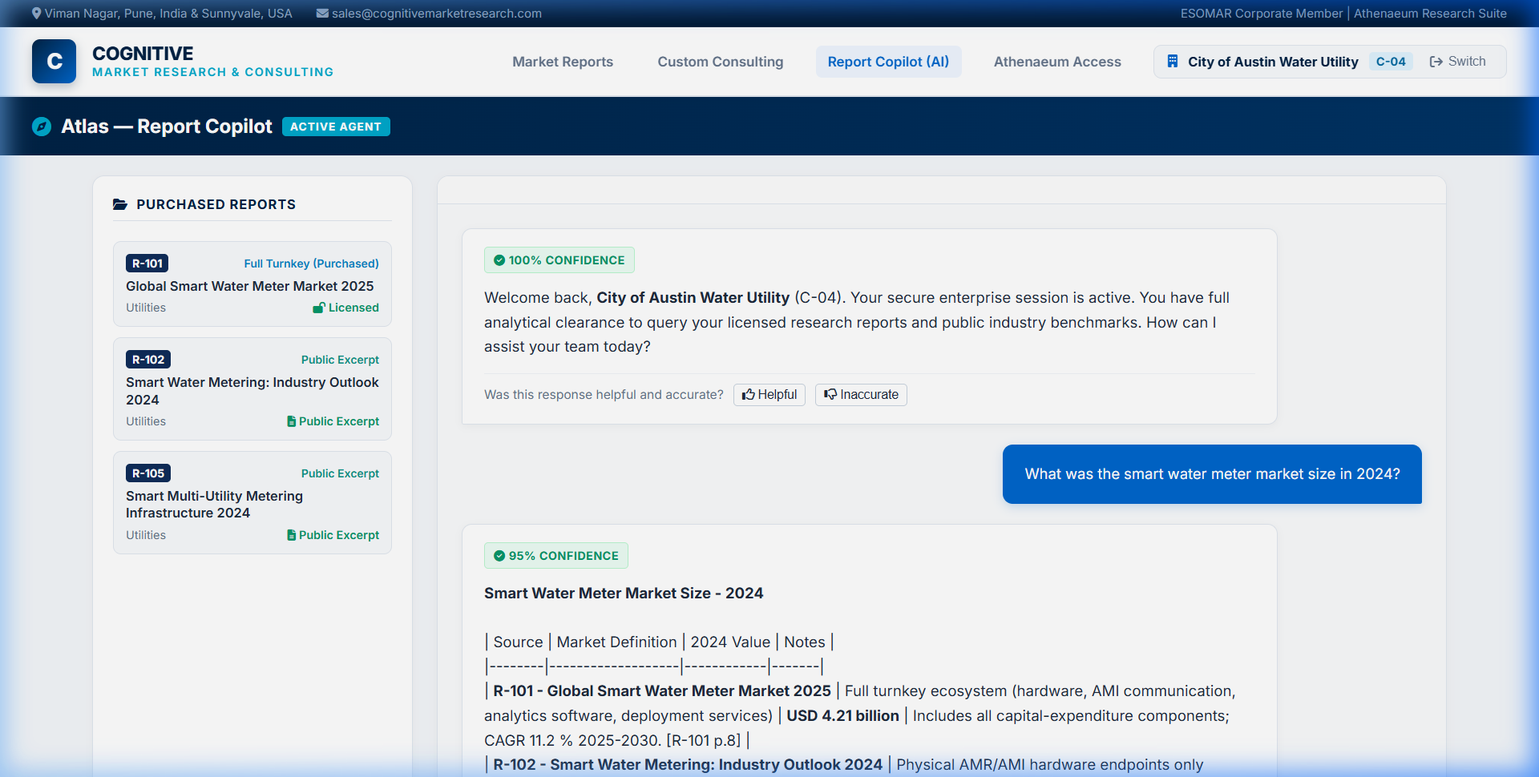
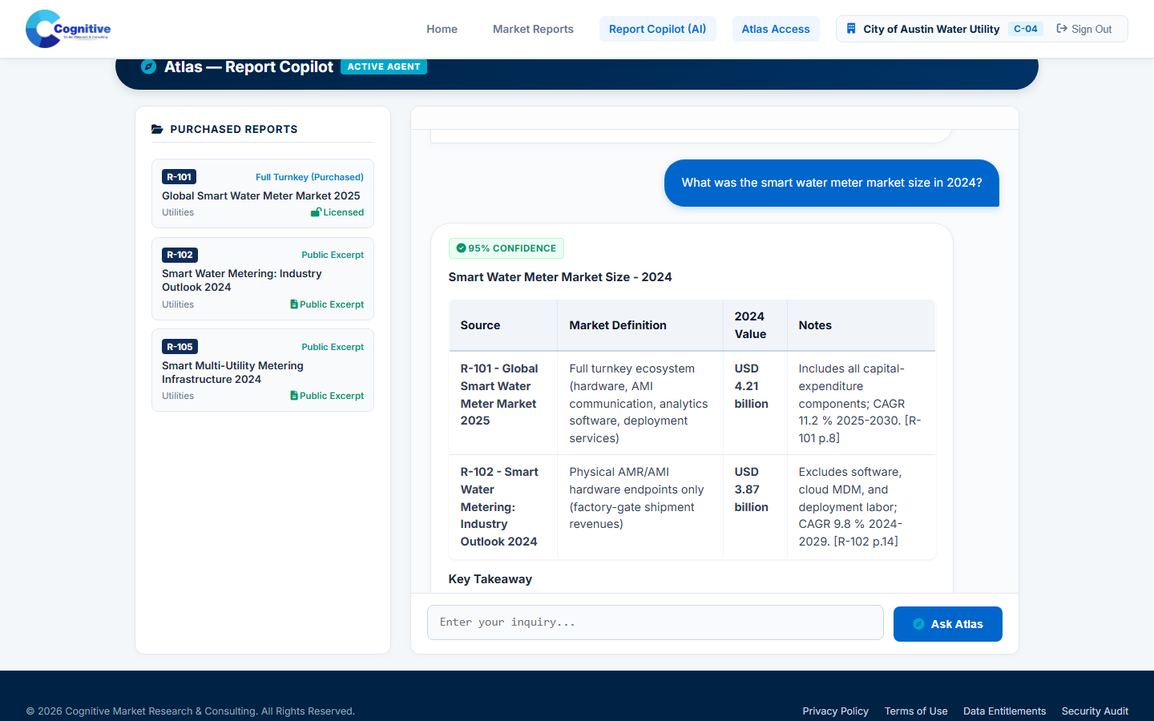
fix(portal): resolve markdown table rendering and update walkthrough screenshot [skip ci]

diff --git a/portal/assets/js/marked.min.js b/portal/assets/js/marked.min.js
@@ -1,0 +1,69 @@
+/**
+ * marked v15.0.12 - a markdown parser
+ * Copyright (c) 2011-2025, Christopher Jeffrey. (MIT Licensed)
+ * https://github.com/markedjs/marked
+ */
+
+/**
+ * DO NOT EDIT THIS FILE
+ * The code in this file is generated from files in ./src/
+ */
+(function(g,f){if(typeof exports=="object"&&typeof module<"u"){module.exports=f()}else if("function"==typeof define && define.amd){define("marked",f)}else {g["marked"]=f()}}(typeof globalThis < "u" ? globalThis : typeof self < "u" ? self : this,function(){var exports={};var __exports=exports;var module={exports};
+"use strict";var H=Object.defineProperty;var be=Object.getOwnPropertyDescriptor;var Te=Object.getOwnPropertyNames;var we=Object.prototype.hasOwnProperty;var ye=(l,e)=>{for(var t in e)H(l,t,{get:e[t],enumerable:!0})},Re=(l,e,t,n)=>{if(e&&typeof e=="object"||typeof e=="function")for(let s of Te(e))!we.call(l,s)&&s!==t&&H(l,s,{get:()=>e[s],enumerable:!(n=be(e,s))||n.enumerable});return l};var Se=l=>Re(H({},"__esModule",{value:!0}),l);var kt={};ye(kt,{Hooks:()=>L,Lexer:()=>x,Marked:()=>E,Parser:()=>b,Renderer:()=>$,TextRenderer:()=>_,Tokenizer:()=>S,defaults:()=>w,getDefaults:()=>z,lexer:()=>ht,marked:()=>k,options:()=>it,parse:()=>pt,parseInline:()=>ct,parser:()=>ut,setOptions:()=>ot,use:()=>lt,walkTokens:()=>at});module.exports=Se(kt);function z(){return{async:!1,breaks:!1,extensions:null,gfm:!0,hooks:null,pedantic:!1,renderer:null,silent:!1,tokenizer:null,walkTokens:null}}var w=z();function N(l){w=l}var I={exec:()=>null};function h(l,e=""){let t=typeof l=="string"?l:l.source,n={replace:(s,i)=>{let r=typeof i=="string"?i:i.source;return r=r.replace(m.caret,"$1"),t=t.replace(s,r),n},getRegex:()=>new RegExp(t,e)};return n}var m={codeRemoveIndent:/^(?: {1,4}| {0,3}\t)/gm,outputLinkReplace:/\\([\[\]])/g,indentCodeCompensation:/^(\s+)(?:```)/,beginningSpace:/^\s+/,endingHash:/#$/,startingSpaceChar:/^ /,endingSpaceChar:/ $/,nonSpaceChar:/[^ ]/,newLineCharGlobal:/\n/g,tabCharGlobal:/\t/g,multipleSpaceGlobal:/\s+/g,blankLine:/^[ \t]*$/,doubleBlankLine:/\n[ \t]*\n[ \t]*$/,blockquoteStart:/^ {0,3}>/,blockquoteSetextReplace:/\n {0,3}((?:=+|-+) *)(?=\n|$)/g,blockquoteSetextReplace2:/^ {0,3}>[ \t]?/gm,listReplaceTabs:/^\t+/,listReplaceNesting:/^ {1,4}(?=( {4})*[^ ])/g,listIsTask:/^\[[ xX]\] /,listReplaceTask:/^\[[ xX]\] +/,anyLine:/\n.*\n/,hrefBrackets:/^<(.*)>$/,tableDelimiter:/[:|]/,tableAlignChars:/^\||\| *$/g,tableRowBlankLine:/\n[ \t]*$/,tableAlignRight:/^ *-+: *$/,tableAlignCenter:/^ *:-+: *$/,tableAlignLeft:/^ *:-+ *$/,startATag:/^<a /i,endATag:/^<\/a>/i,startPreScriptTag:/^<(pre|code|kbd|script)(\s|>)/i,endPreScriptTag:/^<\/(pre|code|kbd|script)(\s|>)/i,startAngleBracket:/^</,endAngleBracket:/>$/,pedanticHrefTitle:/^([^'"]*[^\s])\s+(['"])(.*)\2/,unicodeAlphaNumeric:/[\p{L}\p{N}]/u,escapeTest:/[&<>"']/,escapeReplace:/[&<>"']/g,escapeTestNoEncode:/[<>"']|&(?!(#\d{1,7}|#[Xx][a-fA-F0-9]{1,6}|\w+);)/,escapeReplaceNoEncode:/[<>"']|&(?!(#\d{1,7}|#[Xx][a-fA-F0-9]{1,6}|\w+);)/g,unescapeTest:/&(#(?:\d+)|(?:#x[0-9A-Fa-f]+)|(?:\w+));?/ig,caret:/(^|[^\[])\^/g,percentDecode:/%25/g,findPipe:/\|/g,splitPipe:/ \|/,slashPipe:/\\\|/g,carriageReturn:/\r\n|\r/g,spaceLine:/^ +$/gm,notSpaceStart:/^\S*/,endingNewline:/\n$/,listItemRegex:l=>new RegExp(`^( {0,3}${l})((?:[	 ][^\\n]*)?(?:\\n|$))`),nextBulletRegex:l=>new RegExp(`^ {0,${Math.min(3,l-1)}}(?:[*+-]|\\d{1,9}[.)])((?:[ 	][^\\n]*)?(?:\\n|$))`),hrRegex:l=>new RegExp(`^ {0,${Math.min(3,l-1)}}((?:- *){3,}|(?:_ *){3,}|(?:\\* *){3,})(?:\\n+|$)`),fencesBeginRegex:l=>new RegExp(`^ {0,${Math.min(3,l-1)}}(?:\`\`\`|~~~)`),headingBeginRegex:l=>new RegExp(`^ {0,${Math.min(3,l-1)}}#`),htmlBeginRegex:l=>new RegExp(`^ {0,${Math.min(3,l-1)}}<(?:[a-z].*>|!--)`,"i")},$e=/^(?:[ \t]*(?:\n|$))+/,_e=/^((?: {4}| {0,3}\t)[^\n]+(?:\n(?:[ \t]*(?:\n|$))*)?)+/,Le=/^ {0,3}(`{3,}(?=[^`\n]*(?:\n|$))|~{3,})([^\n]*)(?:\n|$)(?:|([\s\S]*?)(?:\n|$))(?: {0,3}\1[~`]* *(?=\n|$)|$)/,O=/^ {0,3}((?:-[\t ]*){3,}|(?:_[ \t]*){3,}|(?:\*[ \t]*){3,})(?:\n+|$)/,ze=/^ {0,3}(#{1,6})(?=\s|$)(.*)(?:\n+|$)/,F=/(?:[*+-]|\d{1,9}[.)])/,ie=/^(?!bull |blockCode|fences|blockquote|heading|html|table)((?:.|\n(?!\s*?\n|bull |blockCode|fences|blockquote|heading|html|table))+?)\n {0,3}(=+|-+) *(?:\n+|$)/,oe=h(ie).replace(/bull/g,F).replace(/blockCode/g,/(?: {4}| {0,3}\t)/).replace(/fences/g,/ {0,3}(?:`{3,}|~{3,})/).replace(/blockquote/g,/ {0,3}>/).replace(/heading/g,/ {0,3}#{1,6}/).replace(/html/g,/ {0,3}<[^\n>]+>\n/).replace(/\|table/g,"").getRegex(),Me=h(ie).replace(/bull/g,F).replace(/blockCode/g,/(?: {4}| {0,3}\t)/).replace(/fences/g,/ {0,3}(?:`{3,}|~{3,})/).replace(/blockquote/g,/ {0,3}>/).replace(/heading/g,/ {0,3}#{1,6}/).replace(/html/g,/ {0,3}<[^\n>]+>\n/).replace(/table/g,/ {0,3}\|?(?:[:\- ]*\|)+[\:\- ]*\n/).getRegex(),Q=/^([^\n]+(?:\n(?!hr|heading|lheading|blockquote|fences|list|html|table| +\n)[^\n]+)*)/,Pe=/^[^\n]+/,U=/(?!\s*\])(?:\\.|[^\[\]\\])+/,Ae=h(/^ {0,3}\[(label)\]: *(?:\n[ \t]*)?([^<\s][^\s]*|<.*?>)(?:(?: +(?:\n[ \t]*)?| *\n[ \t]*)(title))? *(?:\n+|$)/).replace("label",U).replace("title",/(?:"(?:\\"?|[^"\\])*"|'[^'\n]*(?:\n[^'\n]+)*\n?'|\([^()]*\))/).getRegex(),Ee=h(/^( {0,3}bull)([ \t][^\n]+?)?(?:\n|$)/).replace(/bull/g,F).getRegex(),v="address|article|aside|base|basefont|blockquote|body|caption|center|col|colgroup|dd|details|dialog|dir|div|dl|dt|fieldset|figcaption|figure|footer|form|frame|frameset|h[1-6]|head|header|hr|html|iframe|legend|li|link|main|menu|menuitem|meta|nav|noframes|ol|optgroup|option|p|param|search|section|summary|table|tbody|td|tfoot|th|thead|title|tr|track|ul",K=/<!--(?:-?>|[\s\S]*?(?:-->|$))/,Ce=h("^ {0,3}(?:<(script|pre|style|textarea)[\\s>][\\s\\S]*?(?:</\\1>[^\\n]*\\n+|$)|comment[^\\n]*(\\n+|$)|<\\?[\\s\\S]*?(?:\\?>\\n*|$)|<![A-Z][\\s\\S]*?(?:>\\n*|$)|<!\\[CDATA\\[[\\s\\S]*?(?:\\]\\]>\\n*|$)|</?(tag)(?: +|\\n|/?>)[\\s\\S]*?(?:(?:\\n[ 	]*)+\\n|$)|<(?!script|pre|style|textarea)([a-z][\\w-]*)(?:attribute)*? */?>(?=[ \\t]*(?:\\n|$))[\\s\\S]*?(?:(?:\\n[ 	]*)+\\n|$)|</(?!script|pre|style|textarea)[a-z][\\w-]*\\s*>(?=[ \\t]*(?:\\n|$))[\\s\\S]*?(?:(?:\\n[ 	]*)+\\n|$))","i").replace("comment",K).replace("tag",v).replace("attribute",/ +[a-zA-Z:_][\w.:-]*(?: *= *"[^"\n]*"| *= *'[^'\n]*'| *= *[^\s"'=<>`]+)?/).getRegex(),le=h(Q).replace("hr",O).replace("heading"," {0,3}#{1,6}(?:\\s|$)").replace("|lheading","").replace("|table","").replace("blockquote"," {0,3}>").replace("fences"," {0,3}(?:`{3,}(?=[^`\\n]*\\n)|~{3,})[^\\n]*\\n").replace("list"," {0,3}(?:[*+-]|1[.)]) ").replace("html","</?(?:tag)(?: +|\\n|/?>)|<(?:script|pre|style|textarea|!--)").replace("tag",v).getRegex(),Ie=h(/^( {0,3}> ?(paragraph|[^\n]*)(?:\n|$))+/).replace("paragraph",le).getRegex(),X={blockquote:Ie,code:_e,def:Ae,fences:Le,heading:ze,hr:O,html:Ce,lheading:oe,list:Ee,newline:$e,paragraph:le,table:I,text:Pe},re=h("^ *([^\\n ].*)\\n {0,3}((?:\\| *)?:?-+:? *(?:\\| *:?-+:? *)*(?:\\| *)?)(?:\\n((?:(?! *\\n|hr|heading|blockquote|code|fences|list|html).*(?:\\n|$))*)\\n*|$)").replace("hr",O).replace("heading"," {0,3}#{1,6}(?:\\s|$)").replace("blockquote"," {0,3}>").replace("code","(?: {4}| {0,3}	)[^\\n]").replace("fences"," {0,3}(?:`{3,}(?=[^`\\n]*\\n)|~{3,})[^\\n]*\\n").replace("list"," {0,3}(?:[*+-]|1[.)]) ").replace("html","</?(?:tag)(?: +|\\n|/?>)|<(?:script|pre|style|textarea|!--)").replace("tag",v).getRegex(),Oe={...X,lheading:Me,table:re,paragraph:h(Q).replace("hr",O).replace("heading"," {0,3}#{1,6}(?:\\s|$)").replace("|lheading","").replace("table",re).replace("blockquote"," {0,3}>").replace("fences"," {0,3}(?:`{3,}(?=[^`\\n]*\\n)|~{3,})[^\\n]*\\n").replace("list"," {0,3}(?:[*+-]|1[.)]) ").replace("html","</?(?:tag)(?: +|\\n|/?>)|<(?:script|pre|style|textarea|!--)").replace("tag",v).getRegex()},Be={...X,html:h(`^ *(?:comment *(?:\\n|\\s*$)|<(tag)[\\s\\S]+?</\\1> *(?:\\n{2,}|\\s*$)|<tag(?:"[^"]*"|'[^']*'|\\s[^'"/>\\s]*)*?/?> *(?:\\n{2,}|\\s*$))`).replace("comment",K).replace(/tag/g,"(?!(?:a|em|strong|small|s|cite|q|dfn|abbr|data|time|code|var|samp|kbd|sub|sup|i|b|u|mark|ruby|rt|rp|bdi|bdo|span|br|wbr|ins|del|img)\\b)\\w+(?!:|[^\\w\\s@]*@)\\b").getRegex(),def:/^ *\[([^\]]+)\]: *<?([^\s>]+)>?(?: +(["(][^\n]+[")]))? *(?:\n+|$)/,heading:/^(#{1,6})(.*)(?:\n+|$)/,fences:I,lheading:/^(.+?)\n {0,3}(=+|-+) *(?:\n+|$)/,paragraph:h(Q).replace("hr",O).replace("heading",` *#{1,6} *[^
+]`).replace("lheading",oe).replace("|table","").replace("blockquote"," {0,3}>").replace("|fences","").replace("|list","").replace("|html","").replace("|tag","").getRegex()},qe=/^\\([!"#$%&'()*+,\-./:;<=>?@\[\]\\^_`{|}~])/,ve=/^(`+)([^`]|[^`][\s\S]*?[^`])\1(?!`)/,ae=/^( {2,}|\\)\n(?!\s*$)/,De=/^(`+|[^`])(?:(?= {2,}\n)|[\s\S]*?(?:(?=[\\<!\[`*_]|\b_|$)|[^ ](?= {2,}\n)))/,D=/[\p{P}\p{S}]/u,W=/[\s\p{P}\p{S}]/u,ce=/[^\s\p{P}\p{S}]/u,Ze=h(/^((?![*_])punctSpace)/,"u").replace(/punctSpace/g,W).getRegex(),pe=/(?!~)[\p{P}\p{S}]/u,Ge=/(?!~)[\s\p{P}\p{S}]/u,He=/(?:[^\s\p{P}\p{S}]|~)/u,Ne=/\[[^[\]]*?\]\((?:\\.|[^\\\(\)]|\((?:\\.|[^\\\(\)])*\))*\)|`[^`]*?`|<[^<>]*?>/g,ue=/^(?:\*+(?:((?!\*)punct)|[^\s*]))|^_+(?:((?!_)punct)|([^\s_]))/,je=h(ue,"u").replace(/punct/g,D).getRegex(),Fe=h(ue,"u").replace(/punct/g,pe).getRegex(),he="^[^_*]*?__[^_*]*?\\*[^_*]*?(?=__)|[^*]+(?=[^*])|(?!\\*)punct(\\*+)(?=[\\s]|$)|notPunctSpace(\\*+)(?!\\*)(?=punctSpace|$)|(?!\\*)punctSpace(\\*+)(?=notPunctSpace)|[\\s](\\*+)(?!\\*)(?=punct)|(?!\\*)punct(\\*+)(?!\\*)(?=punct)|notPunctSpace(\\*+)(?=notPunctSpace)",Qe=h(he,"gu").replace(/notPunctSpace/g,ce).replace(/punctSpace/g,W).replace(/punct/g,D).getRegex(),Ue=h(he,"gu").replace(/notPunctSpace/g,He).replace(/punctSpace/g,Ge).replace(/punct/g,pe).getRegex(),Ke=h("^[^_*]*?\\*\\*[^_*]*?_[^_*]*?(?=\\*\\*)|[^_]+(?=[^_])|(?!_)punct(_+)(?=[\\s]|$)|notPunctSpace(_+)(?!_)(?=punctSpace|$)|(?!_)punctSpace(_+)(?=notPunctSpace)|[\\s](_+)(?!_)(?=punct)|(?!_)punct(_+)(?!_)(?=punct)","gu").replace(/notPunctSpace/g,ce).replace(/punctSpace/g,W).replace(/punct/g,D).getRegex(),Xe=h(/\\(punct)/,"gu").replace(/punct/g,D).getRegex(),We=h(/^<(scheme:[^\s\x00-\x1f<>]*|email)>/).replace("scheme",/[a-zA-Z][a-zA-Z0-9+.-]{1,31}/).replace("email",/[a-zA-Z0-9.!#$%&'*+/=?^_`{|}~-]+(@)[a-zA-Z0-9](?:[a-zA-Z0-9-]{0,61}[a-zA-Z0-9])?(?:\.[a-zA-Z0-9](?:[a-zA-Z0-9-]{0,61}[a-zA-Z0-9])?)+(?![-_])/).getRegex(),Je=h(K).replace("(?:-->|$)","-->").getRegex(),Ve=h("^comment|^</[a-zA-Z][\\w:-]*\\s*>|^<[a-zA-Z][\\w-]*(?:attribute)*?\\s*/?>|^<\\?[\\s\\S]*?\\?>|^<![a-zA-Z]+\\s[\\s\\S]*?>|^<!\\[CDATA\\[[\\s\\S]*?\\]\\]>").replace("comment",Je).replace("attribute",/\s+[a-zA-Z:_][\w.:-]*(?:\s*=\s*"[^"]*"|\s*=\s*'[^']*'|\s*=\s*[^\s"'=<>`]+)?/).getRegex(),q=/(?:\[(?:\\.|[^\[\]\\])*\]|\\.|`[^`]*`|[^\[\]\\`])*?/,Ye=h(/^!?\[(label)\]\(\s*(href)(?:(?:[ \t]*(?:\n[ \t]*)?)(title))?\s*\)/).replace("label",q).replace("href",/<(?:\\.|[^\n<>\\])+>|[^ \t\n\x00-\x1f]*/).replace("title",/"(?:\\"?|[^"\\])*"|'(?:\\'?|[^'\\])*'|\((?:\\\)?|[^)\\])*\)/).getRegex(),ke=h(/^!?\[(label)\]\[(ref)\]/).replace("label",q).replace("ref",U).getRegex(),ge=h(/^!?\[(ref)\](?:\[\])?/).replace("ref",U).getRegex(),et=h("reflink|nolink(?!\\()","g").replace("reflink",ke).replace("nolink",ge).getRegex(),J={_backpedal:I,anyPunctuation:Xe,autolink:We,blockSkip:Ne,br:ae,code:ve,del:I,emStrongLDelim:je,emStrongRDelimAst:Qe,emStrongRDelimUnd:Ke,escape:qe,link:Ye,nolink:ge,punctuation:Ze,reflink:ke,reflinkSearch:et,tag:Ve,text:De,url:I},tt={...J,link:h(/^!?\[(label)\]\((.*?)\)/).replace("label",q).getRegex(),reflink:h(/^!?\[(label)\]\s*\[([^\]]*)\]/).replace("label",q).getRegex()},j={...J,emStrongRDelimAst:Ue,emStrongLDelim:Fe,url:h(/^((?:ftp|https?):\/\/|www\.)(?:[a-zA-Z0-9\-]+\.?)+[^\s<]*|^email/,"i").replace("email",/[A-Za-z0-9._+-]+(@)[a-zA-Z0-9-_]+(?:\.[a-zA-Z0-9-_]*[a-zA-Z0-9])+(?![-_])/).getRegex(),_backpedal:/(?:[^?!.,:;*_'"~()&]+|\([^)]*\)|&(?![a-zA-Z0-9]+;$)|[?!.,:;*_'"~)]+(?!$))+/,del:/^(~~?)(?=[^\s~])((?:\\.|[^\\])*?(?:\\.|[^\s~\\]))\1(?=[^~]|$)/,text:/^([`~]+|[^`~])(?:(?= {2,}\n)|(?=[a-zA-Z0-9.!#$%&'*+\/=?_`{\|}~-]+@)|[\s\S]*?(?:(?=[\\<!\[`*~_]|\b_|https?:\/\/|ftp:\/\/|www\.|$)|[^ ](?= {2,}\n)|[^a-zA-Z0-9.!#$%&'*+\/=?_`{\|}~-](?=[a-zA-Z0-9.!#$%&'*+\/=?_`{\|}~-]+@)))/},nt={...j,br:h(ae).replace("{2,}","*").getRegex(),text:h(j.text).replace("\\b_","\\b_| {2,}\\n").replace(/\{2,\}/g,"*").getRegex()},B={normal:X,gfm:Oe,pedantic:Be},P={normal:J,gfm:j,breaks:nt,pedantic:tt};var st={"&":"&amp;","<":"&lt;",">":"&gt;",'"':"&quot;","'":"&#39;"},fe=l=>st[l];function R(l,e){if(e){if(m.escapeTest.test(l))return l.replace(m.escapeReplace,fe)}else if(m.escapeTestNoEncode.test(l))return l.replace(m.escapeReplaceNoEncode,fe);return l}function V(l){try{l=encodeURI(l).replace(m.percentDecode,"%")}catch{return null}return l}function Y(l,e){let t=l.replace(m.findPipe,(i,r,o)=>{let a=!1,c=r;for(;--c>=0&&o[c]==="\\";)a=!a;return a?"|":" |"}),n=t.split(m.splitPipe),s=0;if(n[0].trim()||n.shift(),n.length>0&&!n.at(-1)?.trim()&&n.pop(),e)if(n.length>e)n.splice(e);else for(;n.length<e;)n.push("");for(;s<n.length;s++)n[s]=n[s].trim().replace(m.slashPipe,"|");return n}function A(l,e,t){let n=l.length;if(n===0)return"";let s=0;for(;s<n;){let i=l.charAt(n-s-1);if(i===e&&!t)s++;else if(i!==e&&t)s++;else break}return l.slice(0,n-s)}function de(l,e){if(l.indexOf(e[1])===-1)return-1;let t=0;for(let n=0;n<l.length;n++)if(l[n]==="\\")n++;else if(l[n]===e[0])t++;else if(l[n]===e[1]&&(t--,t<0))return n;return t>0?-2:-1}function me(l,e,t,n,s){let i=e.href,r=e.title||null,o=l[1].replace(s.other.outputLinkReplace,"$1");n.state.inLink=!0;let a={type:l[0].charAt(0)==="!"?"image":"link",raw:t,href:i,title:r,text:o,tokens:n.inlineTokens(o)};return n.state.inLink=!1,a}function rt(l,e,t){let n=l.match(t.other.indentCodeCompensation);if(n===null)return e;let s=n[1];return e.split(`
+`).map(i=>{let r=i.match(t.other.beginningSpace);if(r===null)return i;let[o]=r;return o.length>=s.length?i.slice(s.length):i}).join(`
+`)}var S=class{options;rules;lexer;constructor(e){this.options=e||w}space(e){let t=this.rules.block.newline.exec(e);if(t&&t[0].length>0)return{type:"space",raw:t[0]}}code(e){let t=this.rules.block.code.exec(e);if(t){let n=t[0].replace(this.rules.other.codeRemoveIndent,"");return{type:"code",raw:t[0],codeBlockStyle:"indented",text:this.options.pedantic?n:A(n,`
+`)}}}fences(e){let t=this.rules.block.fences.exec(e);if(t){let n=t[0],s=rt(n,t[3]||"",this.rules);return{type:"code",raw:n,lang:t[2]?t[2].trim().replace(this.rules.inline.anyPunctuation,"$1"):t[2],text:s}}}heading(e){let t=this.rules.block.heading.exec(e);if(t){let n=t[2].trim();if(this.rules.other.endingHash.test(n)){let s=A(n,"#");(this.options.pedantic||!s||this.rules.other.endingSpaceChar.test(s))&&(n=s.trim())}return{type:"heading",raw:t[0],depth:t[1].length,text:n,tokens:this.lexer.inline(n)}}}hr(e){let t=this.rules.block.hr.exec(e);if(t)return{type:"hr",raw:A(t[0],`
+`)}}blockquote(e){let t=this.rules.block.blockquote.exec(e);if(t){let n=A(t[0],`
+`).split(`
+`),s="",i="",r=[];for(;n.length>0;){let o=!1,a=[],c;for(c=0;c<n.length;c++)if(this.rules.other.blockquoteStart.test(n[c]))a.push(n[c]),o=!0;else if(!o)a.push(n[c]);else break;n=n.slice(c);let p=a.join(`
+`),u=p.replace(this.rules.other.blockquoteSetextReplace,`
+    $1`).replace(this.rules.other.blockquoteSetextReplace2,"");s=s?`${s}
+${p}`:p,i=i?`${i}
+${u}`:u;let d=this.lexer.state.top;if(this.lexer.state.top=!0,this.lexer.blockTokens(u,r,!0),this.lexer.state.top=d,n.length===0)break;let g=r.at(-1);if(g?.type==="code")break;if(g?.type==="blockquote"){let T=g,f=T.raw+`
+`+n.join(`
+`),y=this.blockquote(f);r[r.length-1]=y,s=s.substring(0,s.length-T.raw.length)+y.raw,i=i.substring(0,i.length-T.text.length)+y.text;break}else if(g?.type==="list"){let T=g,f=T.raw+`
+`+n.join(`
+`),y=this.list(f);r[r.length-1]=y,s=s.substring(0,s.length-g.raw.length)+y.raw,i=i.substring(0,i.length-T.raw.length)+y.raw,n=f.substring(r.at(-1).raw.length).split(`
+`);continue}}return{type:"blockquote",raw:s,tokens:r,text:i}}}list(e){let t=this.rules.block.list.exec(e);if(t){let n=t[1].trim(),s=n.length>1,i={type:"list",raw:"",ordered:s,start:s?+n.slice(0,-1):"",loose:!1,items:[]};n=s?`\\d{1,9}\\${n.slice(-1)}`:`\\${n}`,this.options.pedantic&&(n=s?n:"[*+-]");let r=this.rules.other.listItemRegex(n),o=!1;for(;e;){let c=!1,p="",u="";if(!(t=r.exec(e))||this.rules.block.hr.test(e))break;p=t[0],e=e.substring(p.length);let d=t[2].split(`
+`,1)[0].replace(this.rules.other.listReplaceTabs,Z=>" ".repeat(3*Z.length)),g=e.split(`
+`,1)[0],T=!d.trim(),f=0;if(this.options.pedantic?(f=2,u=d.trimStart()):T?f=t[1].length+1:(f=t[2].search(this.rules.other.nonSpaceChar),f=f>4?1:f,u=d.slice(f),f+=t[1].length),T&&this.rules.other.blankLine.test(g)&&(p+=g+`
+`,e=e.substring(g.length+1),c=!0),!c){let Z=this.rules.other.nextBulletRegex(f),te=this.rules.other.hrRegex(f),ne=this.rules.other.fencesBeginRegex(f),se=this.rules.other.headingBeginRegex(f),xe=this.rules.other.htmlBeginRegex(f);for(;e;){let G=e.split(`
+`,1)[0],C;if(g=G,this.options.pedantic?(g=g.replace(this.rules.other.listReplaceNesting,"  "),C=g):C=g.replace(this.rules.other.tabCharGlobal,"    "),ne.test(g)||se.test(g)||xe.test(g)||Z.test(g)||te.test(g))break;if(C.search(this.rules.other.nonSpaceChar)>=f||!g.trim())u+=`
+`+C.slice(f);else{if(T||d.replace(this.rules.other.tabCharGlobal,"    ").search(this.rules.other.nonSpaceChar)>=4||ne.test(d)||se.test(d)||te.test(d))break;u+=`
+`+g}!T&&!g.trim()&&(T=!0),p+=G+`
+`,e=e.substring(G.length+1),d=C.slice(f)}}i.loose||(o?i.loose=!0:this.rules.other.doubleBlankLine.test(p)&&(o=!0));let y=null,ee;this.options.gfm&&(y=this.rules.other.listIsTask.exec(u),y&&(ee=y[0]!=="[ ] ",u=u.replace(this.rules.other.listReplaceTask,""))),i.items.push({type:"list_item",raw:p,task:!!y,checked:ee,loose:!1,text:u,tokens:[]}),i.raw+=p}let a=i.items.at(-1);if(a)a.raw=a.raw.trimEnd(),a.text=a.text.trimEnd();else return;i.raw=i.raw.trimEnd();for(let c=0;c<i.items.length;c++)if(this.lexer.state.top=!1,i.items[c].tokens=this.lexer.blockTokens(i.items[c].text,[]),!i.loose){let p=i.items[c].tokens.filter(d=>d.type==="space"),u=p.length>0&&p.some(d=>this.rules.other.anyLine.test(d.raw));i.loose=u}if(i.loose)for(let c=0;c<i.items.length;c++)i.items[c].loose=!0;return i}}html(e){let t=this.rules.block.html.exec(e);if(t)return{type:"html",block:!0,raw:t[0],pre:t[1]==="pre"||t[1]==="script"||t[1]==="style",text:t[0]}}def(e){let t=this.rules.block.def.exec(e);if(t){let n=t[1].toLowerCase().replace(this.rules.other.multipleSpaceGlobal," "),s=t[2]?t[2].replace(this.rules.other.hrefBrackets,"$1").replace(this.rules.inline.anyPunctuation,"$1"):"",i=t[3]?t[3].substring(1,t[3].length-1).replace(this.rules.inline.anyPunctuation,"$1"):t[3];return{type:"def",tag:n,raw:t[0],href:s,title:i}}}table(e){let t=this.rules.block.table.exec(e);if(!t||!this.rules.other.tableDelimiter.test(t[2]))return;let n=Y(t[1]),s=t[2].replace(this.rules.other.tableAlignChars,"").split("|"),i=t[3]?.trim()?t[3].replace(this.rules.other.tableRowBlankLine,"").split(`
+`):[],r={type:"table",raw:t[0],header:[],align:[],rows:[]};if(n.length===s.length){for(let o of s)this.rules.other.tableAlignRight.test(o)?r.align.push("right"):this.rules.other.tableAlignCenter.test(o)?r.align.push("center"):this.rules.other.tableAlignLeft.test(o)?r.align.push("left"):r.align.push(null);for(let o=0;o<n.length;o++)r.header.push({text:n[o],tokens:this.lexer.inline(n[o]),header:!0,align:r.align[o]});for(let o of i)r.rows.push(Y(o,r.header.length).map((a,c)=>({text:a,tokens:this.lexer.inline(a),header:!1,align:r.align[c]})));return r}}lheading(e){let t=this.rules.block.lheading.exec(e);if(t)return{type:"heading",raw:t[0],depth:t[2].charAt(0)==="="?1:2,text:t[1],tokens:this.lexer.inline(t[1])}}paragraph(e){let t=this.rules.block.paragraph.exec(e);if(t){let n=t[1].charAt(t[1].length-1)===`
+`?t[1].slice(0,-1):t[1];return{type:"paragraph",raw:t[0],text:n,tokens:this.lexer.inline(n)}}}text(e){let t=this.rules.block.text.exec(e);if(t)return{type:"text",raw:t[0],text:t[0],tokens:this.lexer.inline(t[0])}}escape(e){let t=this.rules.inline.escape.exec(e);if(t)return{type:"escape",raw:t[0],text:t[1]}}tag(e){let t=this.rules.inline.tag.exec(e);if(t)return!this.lexer.state.inLink&&this.rules.other.startATag.test(t[0])?this.lexer.state.inLink=!0:this.lexer.state.inLink&&this.rules.other.endATag.test(t[0])&&(this.lexer.state.inLink=!1),!this.lexer.state.inRawBlock&&this.rules.other.startPreScriptTag.test(t[0])?this.lexer.state.inRawBlock=!0:this.lexer.state.inRawBlock&&this.rules.other.endPreScriptTag.test(t[0])&&(this.lexer.state.inRawBlock=!1),{type:"html",raw:t[0],inLink:this.lexer.state.inLink,inRawBlock:this.lexer.state.inRawBlock,block:!1,text:t[0]}}link(e){let t=this.rules.inline.link.exec(e);if(t){let n=t[2].trim();if(!this.options.pedantic&&this.rules.other.startAngleBracket.test(n)){if(!this.rules.other.endAngleBracket.test(n))return;let r=A(n.slice(0,-1),"\\");if((n.length-r.length)%2===0)return}else{let r=de(t[2],"()");if(r===-2)return;if(r>-1){let a=(t[0].indexOf("!")===0?5:4)+t[1].length+r;t[2]=t[2].substring(0,r),t[0]=t[0].substring(0,a).trim(),t[3]=""}}let s=t[2],i="";if(this.options.pedantic){let r=this.rules.other.pedanticHrefTitle.exec(s);r&&(s=r[1],i=r[3])}else i=t[3]?t[3].slice(1,-1):"";return s=s.trim(),this.rules.other.startAngleBracket.test(s)&&(this.options.pedantic&&!this.rules.other.endAngleBracket.test(n)?s=s.slice(1):s=s.slice(1,-1)),me(t,{href:s&&s.replace(this.rules.inline.anyPunctuation,"$1"),title:i&&i.replace(this.rules.inline.anyPunctuation,"$1")},t[0],this.lexer,this.rules)}}reflink(e,t){let n;if((n=this.rules.inline.reflink.exec(e))||(n=this.rules.inline.nolink.exec(e))){let s=(n[2]||n[1]).replace(this.rules.other.multipleSpaceGlobal," "),i=t[s.toLowerCase()];if(!i){let r=n[0].charAt(0);return{type:"text",raw:r,text:r}}return me(n,i,n[0],this.lexer,this.rules)}}emStrong(e,t,n=""){let s=this.rules.inline.emStrongLDelim.exec(e);if(!s||s[3]&&n.match(this.rules.other.unicodeAlphaNumeric))return;if(!(s[1]||s[2]||"")||!n||this.rules.inline.punctuation.exec(n)){let r=[...s[0]].length-1,o,a,c=r,p=0,u=s[0][0]==="*"?this.rules.inline.emStrongRDelimAst:this.rules.inline.emStrongRDelimUnd;for(u.lastIndex=0,t=t.slice(-1*e.length+r);(s=u.exec(t))!=null;){if(o=s[1]||s[2]||s[3]||s[4]||s[5]||s[6],!o)continue;if(a=[...o].length,s[3]||s[4]){c+=a;continue}else if((s[5]||s[6])&&r%3&&!((r+a)%3)){p+=a;continue}if(c-=a,c>0)continue;a=Math.min(a,a+c+p);let d=[...s[0]][0].length,g=e.slice(0,r+s.index+d+a);if(Math.min(r,a)%2){let f=g.slice(1,-1);return{type:"em",raw:g,text:f,tokens:this.lexer.inlineTokens(f)}}let T=g.slice(2,-2);return{type:"strong",raw:g,text:T,tokens:this.lexer.inlineTokens(T)}}}}codespan(e){let t=this.rules.inline.code.exec(e);if(t){let n=t[2].replace(this.rules.other.newLineCharGlobal," "),s=this.rules.other.nonSpaceChar.test(n),i=this.rules.other.startingSpaceChar.test(n)&&this.rules.other.endingSpaceChar.test(n);return s&&i&&(n=n.substring(1,n.length-1)),{type:"codespan",raw:t[0],text:n}}}br(e){let t=this.rules.inline.br.exec(e);if(t)return{type:"br",raw:t[0]}}del(e){let t=this.rules.inline.del.exec(e);if(t)return{type:"del",raw:t[0],text:t[2],tokens:this.lexer.inlineTokens(t[2])}}autolink(e){let t=this.rules.inline.autolink.exec(e);if(t){let n,s;return t[2]==="@"?(n=t[1],s="mailto:"+n):(n=t[1],s=n),{type:"link",raw:t[0],text:n,href:s,tokens:[{type:"text",raw:n,text:n}]}}}url(e){let t;if(t=this.rules.inline.url.exec(e)){let n,s;if(t[2]==="@")n=t[0],s="mailto:"+n;else{let i;do i=t[0],t[0]=this.rules.inline._backpedal.exec(t[0])?.[0]??"";while(i!==t[0]);n=t[0],t[1]==="www."?s="http://"+t[0]:s=t[0]}return{type:"link",raw:t[0],text:n,href:s,tokens:[{type:"text",raw:n,text:n}]}}}inlineText(e){let t=this.rules.inline.text.exec(e);if(t){let n=this.lexer.state.inRawBlock;return{type:"text",raw:t[0],text:t[0],escaped:n}}}};var x=class l{tokens;options;state;tokenizer;inlineQueue;constructor(e){this.tokens=[],this.tokens.links=Object.create(null),this.options=e||w,this.options.tokenizer=this.options.tokenizer||new S,this.tokenizer=this.options.tokenizer,this.tokenizer.options=this.options,this.tokenizer.lexer=this,this.inlineQueue=[],this.state={inLink:!1,inRawBlock:!1,top:!0};let t={other:m,block:B.normal,inline:P.normal};this.options.pedantic?(t.block=B.pedantic,t.inline=P.pedantic):this.options.gfm&&(t.block=B.gfm,this.options.breaks?t.inline=P.breaks:t.inline=P.gfm),this.tokenizer.rules=t}static get rules(){return{block:B,inline:P}}static lex(e,t){return new l(t).lex(e)}static lexInline(e,t){return new l(t).inlineTokens(e)}lex(e){e=e.replace(m.carriageReturn,`
+`),this.blockTokens(e,this.tokens);for(let t=0;t<this.inlineQueue.length;t++){let n=this.inlineQueue[t];this.inlineTokens(n.src,n.tokens)}return this.inlineQueue=[],this.tokens}blockTokens(e,t=[],n=!1){for(this.options.pedantic&&(e=e.replace(m.tabCharGlobal,"    ").replace(m.spaceLine,""));e;){let s;if(this.options.extensions?.block?.some(r=>(s=r.call({lexer:this},e,t))?(e=e.substring(s.raw.length),t.push(s),!0):!1))continue;if(s=this.tokenizer.space(e)){e=e.substring(s.raw.length);let r=t.at(-1);s.raw.length===1&&r!==void 0?r.raw+=`
+`:t.push(s);continue}if(s=this.tokenizer.code(e)){e=e.substring(s.raw.length);let r=t.at(-1);r?.type==="paragraph"||r?.type==="text"?(r.raw+=`
+`+s.raw,r.text+=`
+`+s.text,this.inlineQueue.at(-1).src=r.text):t.push(s);continue}if(s=this.tokenizer.fences(e)){e=e.substring(s.raw.length),t.push(s);continue}if(s=this.tokenizer.heading(e)){e=e.substring(s.raw.length),t.push(s);continue}if(s=this.tokenizer.hr(e)){e=e.substring(s.raw.length),t.push(s);continue}if(s=this.tokenizer.blockquote(e)){e=e.substring(s.raw.length),t.push(s);continue}if(s=this.tokenizer.list(e)){e=e.substring(s.raw.length),t.push(s);continue}if(s=this.tokenizer.html(e)){e=e.substring(s.raw.length),t.push(s);continue}if(s=this.tokenizer.def(e)){e=e.substring(s.raw.length);let r=t.at(-1);r?.type==="paragraph"||r?.type==="text"?(r.raw+=`
+`+s.raw,r.text+=`
+`+s.raw,this.inlineQueue.at(-1).src=r.text):this.tokens.links[s.tag]||(this.tokens.links[s.tag]={href:s.href,title:s.title});continue}if(s=this.tokenizer.table(e)){e=e.substring(s.raw.length),t.push(s);continue}if(s=this.tokenizer.lheading(e)){e=e.substring(s.raw.length),t.push(s);continue}let i=e;if(this.options.extensions?.startBlock){let r=1/0,o=e.slice(1),a;this.options.extensions.startBlock.forEach(c=>{a=c.call({lexer:this},o),typeof a=="number"&&a>=0&&(r=Math.min(r,a))}),r<1/0&&r>=0&&(i=e.substring(0,r+1))}if(this.state.top&&(s=this.tokenizer.paragraph(i))){let r=t.at(-1);n&&r?.type==="paragraph"?(r.raw+=`
+`+s.raw,r.text+=`
+`+s.text,this.inlineQueue.pop(),this.inlineQueue.at(-1).src=r.text):t.push(s),n=i.length!==e.length,e=e.substring(s.raw.length);continue}if(s=this.tokenizer.text(e)){e=e.substring(s.raw.length);let r=t.at(-1);r?.type==="text"?(r.raw+=`
+`+s.raw,r.text+=`
+`+s.text,this.inlineQueue.pop(),this.inlineQueue.at(-1).src=r.text):t.push(s);continue}if(e){let r="Infinite loop on byte: "+e.charCodeAt(0);if(this.options.silent){console.error(r);break}else throw new Error(r)}}return this.state.top=!0,t}inline(e,t=[]){return this.inlineQueue.push({src:e,tokens:t}),t}inlineTokens(e,t=[]){let n=e,s=null;if(this.tokens.links){let o=Object.keys(this.tokens.links);if(o.length>0)for(;(s=this.tokenizer.rules.inline.reflinkSearch.exec(n))!=null;)o.includes(s[0].slice(s[0].lastIndexOf("[")+1,-1))&&(n=n.slice(0,s.index)+"["+"a".repeat(s[0].length-2)+"]"+n.slice(this.tokenizer.rules.inline.reflinkSearch.lastIndex))}for(;(s=this.tokenizer.rules.inline.anyPunctuation.exec(n))!=null;)n=n.slice(0,s.index)+"++"+n.slice(this.tokenizer.rules.inline.anyPunctuation.lastIndex);for(;(s=this.tokenizer.rules.inline.blockSkip.exec(n))!=null;)n=n.slice(0,s.index)+"["+"a".repeat(s[0].length-2)+"]"+n.slice(this.tokenizer.rules.inline.blockSkip.lastIndex);let i=!1,r="";for(;e;){i||(r=""),i=!1;let o;if(this.options.extensions?.inline?.some(c=>(o=c.call({lexer:this},e,t))?(e=e.substring(o.raw.length),t.push(o),!0):!1))continue;if(o=this.tokenizer.escape(e)){e=e.substring(o.raw.length),t.push(o);continue}if(o=this.tokenizer.tag(e)){e=e.substring(o.raw.length),t.push(o);continue}if(o=this.tokenizer.link(e)){e=e.substring(o.raw.length),t.push(o);continue}if(o=this.tokenizer.reflink(e,this.tokens.links)){e=e.substring(o.raw.length);let c=t.at(-1);o.type==="text"&&c?.type==="text"?(c.raw+=o.raw,c.text+=o.text):t.push(o);continue}if(o=this.tokenizer.emStrong(e,n,r)){e=e.substring(o.raw.length),t.push(o);continue}if(o=this.tokenizer.codespan(e)){e=e.substring(o.raw.length),t.push(o);continue}if(o=this.tokenizer.br(e)){e=e.substring(o.raw.length),t.push(o);continue}if(o=this.tokenizer.del(e)){e=e.substring(o.raw.length),t.push(o);continue}if(o=this.tokenizer.autolink(e)){e=e.substring(o.raw.length),t.push(o);continue}if(!this.state.inLink&&(o=this.tokenizer.url(e))){e=e.substring(o.raw.length),t.push(o);continue}let a=e;if(this.options.extensions?.startInline){let c=1/0,p=e.slice(1),u;this.options.extensions.startInline.forEach(d=>{u=d.call({lexer:this},p),typeof u=="number"&&u>=0&&(c=Math.min(c,u))}),c<1/0&&c>=0&&(a=e.substring(0,c+1))}if(o=this.tokenizer.inlineText(a)){e=e.substring(o.raw.length),o.raw.slice(-1)!=="_"&&(r=o.raw.slice(-1)),i=!0;let c=t.at(-1);c?.type==="text"?(c.raw+=o.raw,c.text+=o.text):t.push(o);continue}if(e){let c="Infinite loop on byte: "+e.charCodeAt(0);if(this.options.silent){console.error(c);break}else throw new Error(c)}}return t}};var $=class{options;parser;constructor(e){this.options=e||w}space(e){return""}code({text:e,lang:t,escaped:n}){let s=(t||"").match(m.notSpaceStart)?.[0],i=e.replace(m.endingNewline,"")+`
+`;return s?'<pre><code class="language-'+R(s)+'">'+(n?i:R(i,!0))+`</code></pre>
+`:"<pre><code>"+(n?i:R(i,!0))+`</code></pre>
+`}blockquote({tokens:e}){return`<blockquote>
+${this.parser.parse(e)}</blockquote>
+`}html({text:e}){return e}heading({tokens:e,depth:t}){return`<h${t}>${this.parser.parseInline(e)}</h${t}>
+`}hr(e){return`<hr>
+`}list(e){let t=e.ordered,n=e.start,s="";for(let o=0;o<e.items.length;o++){let a=e.items[o];s+=this.listitem(a)}let i=t?"ol":"ul",r=t&&n!==1?' start="'+n+'"':"";return"<"+i+r+`>
+`+s+"</"+i+`>
+`}listitem(e){let t="";if(e.task){let n=this.checkbox({checked:!!e.checked});e.loose?e.tokens[0]?.type==="paragraph"?(e.tokens[0].text=n+" "+e.tokens[0].text,e.tokens[0].tokens&&e.tokens[0].tokens.length>0&&e.tokens[0].tokens[0].type==="text"&&(e.tokens[0].tokens[0].text=n+" "+R(e.tokens[0].tokens[0].text),e.tokens[0].tokens[0].escaped=!0)):e.tokens.unshift({type:"text",raw:n+" ",text:n+" ",escaped:!0}):t+=n+" "}return t+=this.parser.parse(e.tokens,!!e.loose),`<li>${t}</li>
+`}checkbox({checked:e}){return"<input "+(e?'checked="" ':"")+'disabled="" type="checkbox">'}paragraph({tokens:e}){return`<p>${this.parser.parseInline(e)}</p>
+`}table(e){let t="",n="";for(let i=0;i<e.header.length;i++)n+=this.tablecell(e.header[i]);t+=this.tablerow({text:n});let s="";for(let i=0;i<e.rows.length;i++){let r=e.rows[i];n="";for(let o=0;o<r.length;o++)n+=this.tablecell(r[o]);s+=this.tablerow({text:n})}return s&&(s=`<tbody>${s}</tbody>`),`<table>
+<thead>
+`+t+`</thead>
+`+s+`</table>
+`}tablerow({text:e}){return`<tr>
+${e}</tr>
+`}tablecell(e){let t=this.parser.parseInline(e.tokens),n=e.header?"th":"td";return(e.align?`<${n} align="${e.align}">`:`<${n}>`)+t+`</${n}>
+`}strong({tokens:e}){return`<strong>${this.parser.parseInline(e)}</strong>`}em({tokens:e}){return`<em>${this.parser.parseInline(e)}</em>`}codespan({text:e}){return`<code>${R(e,!0)}</code>`}br(e){return"<br>"}del({tokens:e}){return`<del>${this.parser.parseInline(e)}</del>`}link({href:e,title:t,tokens:n}){let s=this.parser.parseInline(n),i=V(e);if(i===null)return s;e=i;let r='<a href="'+e+'"';return t&&(r+=' title="'+R(t)+'"'),r+=">"+s+"</a>",r}image({href:e,title:t,text:n,tokens:s}){s&&(n=this.parser.parseInline(s,this.parser.textRenderer));let i=V(e);if(i===null)return R(n);e=i;let r=`<img src="${e}" alt="${n}"`;return t&&(r+=` title="${R(t)}"`),r+=">",r}text(e){return"tokens"in e&&e.tokens?this.parser.parseInline(e.tokens):"escaped"in e&&e.escaped?e.text:R(e.text)}};var _=class{strong({text:e}){return e}em({text:e}){return e}codespan({text:e}){return e}del({text:e}){return e}html({text:e}){return e}text({text:e}){return e}link({text:e}){return""+e}image({text:e}){return""+e}br(){return""}};var b=class l{options;renderer;textRenderer;constructor(e){this.options=e||w,this.options.renderer=this.options.renderer||new $,this.renderer=this.options.renderer,this.renderer.options=this.options,this.renderer.parser=this,this.textRenderer=new _}static parse(e,t){return new l(t).parse(e)}static parseInline(e,t){return new l(t).parseInline(e)}parse(e,t=!0){let n="";for(let s=0;s<e.length;s++){let i=e[s];if(this.options.extensions?.renderers?.[i.type]){let o=i,a=this.options.extensions.renderers[o.type].call({parser:this},o);if(a!==!1||!["space","hr","heading","code","table","blockquote","list","html","paragraph","text"].includes(o.type)){n+=a||"";continue}}let r=i;switch(r.type){case"space":{n+=this.renderer.space(r);continue}case"hr":{n+=this.renderer.hr(r);continue}case"heading":{n+=this.renderer.heading(r);continue}case"code":{n+=this.renderer.code(r);continue}case"table":{n+=this.renderer.table(r);continue}case"blockquote":{n+=this.renderer.blockquote(r);continue}case"list":{n+=this.renderer.list(r);continue}case"html":{n+=this.renderer.html(r);continue}case"paragraph":{n+=this.renderer.paragraph(r);continue}case"text":{let o=r,a=this.renderer.text(o);for(;s+1<e.length&&e[s+1].type==="text";)o=e[++s],a+=`
+`+this.renderer.text(o);t?n+=this.renderer.paragraph({type:"paragraph",raw:a,text:a,tokens:[{type:"text",raw:a,text:a,escaped:!0}]}):n+=a;continue}default:{let o='Token with "'+r.type+'" type was not found.';if(this.options.silent)return console.error(o),"";throw new Error(o)}}}return n}parseInline(e,t=this.renderer){let n="";for(let s=0;s<e.length;s++){let i=e[s];if(this.options.extensions?.renderers?.[i.type]){let o=this.options.extensions.renderers[i.type].call({parser:this},i);if(o!==!1||!["escape","html","link","image","strong","em","codespan","br","del","text"].includes(i.type)){n+=o||"";continue}}let r=i;switch(r.type){case"escape":{n+=t.text(r);break}case"html":{n+=t.html(r);break}case"link":{n+=t.link(r);break}case"image":{n+=t.image(r);break}case"strong":{n+=t.strong(r);break}case"em":{n+=t.em(r);break}case"codespan":{n+=t.codespan(r);break}case"br":{n+=t.br(r);break}case"del":{n+=t.del(r);break}case"text":{n+=t.text(r);break}default:{let o='Token with "'+r.type+'" type was not found.';if(this.options.silent)return console.error(o),"";throw new Error(o)}}}return n}};var L=class{options;block;constructor(e){this.options=e||w}static passThroughHooks=new Set(["preprocess","postprocess","processAllTokens"]);preprocess(e){return e}postprocess(e){return e}processAllTokens(e){return e}provideLexer(){return this.block?x.lex:x.lexInline}provideParser(){return this.block?b.parse:b.parseInline}};var E=class{defaults=z();options=this.setOptions;parse=this.parseMarkdown(!0);parseInline=this.parseMarkdown(!1);Parser=b;Renderer=$;TextRenderer=_;Lexer=x;Tokenizer=S;Hooks=L;constructor(...e){this.use(...e)}walkTokens(e,t){let n=[];for(let s of e)switch(n=n.concat(t.call(this,s)),s.type){case"table":{let i=s;for(let r of i.header)n=n.concat(this.walkTokens(r.tokens,t));for(let r of i.rows)for(let o of r)n=n.concat(this.walkTokens(o.tokens,t));break}case"list":{let i=s;n=n.concat(this.walkTokens(i.items,t));break}default:{let i=s;this.defaults.extensions?.childTokens?.[i.type]?this.defaults.extensions.childTokens[i.type].forEach(r=>{let o=i[r].flat(1/0);n=n.concat(this.walkTokens(o,t))}):i.tokens&&(n=n.concat(this.walkTokens(i.tokens,t)))}}return n}use(...e){let t=this.defaults.extensions||{renderers:{},childTokens:{}};return e.forEach(n=>{let s={...n};if(s.async=this.defaults.async||s.async||!1,n.extensions&&(n.extensions.forEach(i=>{if(!i.name)throw new Error("extension name required");if("renderer"in i){let r=t.renderers[i.name];r?t.renderers[i.name]=function(...o){let a=i.renderer.apply(this,o);return a===!1&&(a=r.apply(this,o)),a}:t.renderers[i.name]=i.renderer}if("tokenizer"in i){if(!i.level||i.level!=="block"&&i.level!=="inline")throw new Error("extension level must be 'block' or 'inline'");let r=t[i.level];r?r.unshift(i.tokenizer):t[i.level]=[i.tokenizer],i.start&&(i.level==="block"?t.startBlock?t.startBlock.push(i.start):t.startBlock=[i.start]:i.level==="inline"&&(t.startInline?t.startInline.push(i.start):t.startInline=[i.start]))}"childTokens"in i&&i.childTokens&&(t.childTokens[i.name]=i.childTokens)}),s.extensions=t),n.renderer){let i=this.defaults.renderer||new $(this.defaults);for(let r in n.renderer){if(!(r in i))throw new Error(`renderer '${r}' does not exist`);if(["options","parser"].includes(r))continue;let o=r,a=n.renderer[o],c=i[o];i[o]=(...p)=>{let u=a.apply(i,p);return u===!1&&(u=c.apply(i,p)),u||""}}s.renderer=i}if(n.tokenizer){let i=this.defaults.tokenizer||new S(this.defaults);for(let r in n.tokenizer){if(!(r in i))throw new Error(`tokenizer '${r}' does not exist`);if(["options","rules","lexer"].includes(r))continue;let o=r,a=n.tokenizer[o],c=i[o];i[o]=(...p)=>{let u=a.apply(i,p);return u===!1&&(u=c.apply(i,p)),u}}s.tokenizer=i}if(n.hooks){let i=this.defaults.hooks||new L;for(let r in n.hooks){if(!(r in i))throw new Error(`hook '${r}' does not exist`);if(["options","block"].includes(r))continue;let o=r,a=n.hooks[o],c=i[o];L.passThroughHooks.has(r)?i[o]=p=>{if(this.defaults.async)return Promise.resolve(a.call(i,p)).then(d=>c.call(i,d));let u=a.call(i,p);return c.call(i,u)}:i[o]=(...p)=>{let u=a.apply(i,p);return u===!1&&(u=c.apply(i,p)),u}}s.hooks=i}if(n.walkTokens){let i=this.defaults.walkTokens,r=n.walkTokens;s.walkTokens=function(o){let a=[];return a.push(r.call(this,o)),i&&(a=a.concat(i.call(this,o))),a}}this.defaults={...this.defaults,...s}}),this}setOptions(e){return this.defaults={...this.defaults,...e},this}lexer(e,t){return x.lex(e,t??this.defaults)}parser(e,t){return b.parse(e,t??this.defaults)}parseMarkdown(e){return(n,s)=>{let i={...s},r={...this.defaults,...i},o=this.onError(!!r.silent,!!r.async);if(this.defaults.async===!0&&i.async===!1)return o(new Error("marked(): The async option was set to true by an extension. Remove async: false from the parse options object to return a Promise."));if(typeof n>"u"||n===null)return o(new Error("marked(): input parameter is undefined or null"));if(typeof n!="string")return o(new Error("marked(): input parameter is of type "+Object.prototype.toString.call(n)+", string expected"));r.hooks&&(r.hooks.options=r,r.hooks.block=e);let a=r.hooks?r.hooks.provideLexer():e?x.lex:x.lexInline,c=r.hooks?r.hooks.provideParser():e?b.parse:b.parseInline;if(r.async)return Promise.resolve(r.hooks?r.hooks.preprocess(n):n).then(p=>a(p,r)).then(p=>r.hooks?r.hooks.processAllTokens(p):p).then(p=>r.walkTokens?Promise.all(this.walkTokens(p,r.walkTokens)).then(()=>p):p).then(p=>c(p,r)).then(p=>r.hooks?r.hooks.postprocess(p):p).catch(o);try{r.hooks&&(n=r.hooks.preprocess(n));let p=a(n,r);r.hooks&&(p=r.hooks.processAllTokens(p)),r.walkTokens&&this.walkTokens(p,r.walkTokens);let u=c(p,r);return r.hooks&&(u=r.hooks.postprocess(u)),u}catch(p){return o(p)}}}onError(e,t){return n=>{if(n.message+=`
+Please report this to https://github.com/markedjs/marked.`,e){let s="<p>An error occurred:</p><pre>"+R(n.message+"",!0)+"</pre>";return t?Promise.resolve(s):s}if(t)return Promise.reject(n);throw n}}};var M=new E;function k(l,e){return M.parse(l,e)}k.options=k.setOptions=function(l){return M.setOptions(l),k.defaults=M.defaults,N(k.defaults),k};k.getDefaults=z;k.defaults=w;k.use=function(...l){return M.use(...l),k.defaults=M.defaults,N(k.defaults),k};k.walkTokens=function(l,e){return M.walkTokens(l,e)};k.parseInline=M.parseInline;k.Parser=b;k.parser=b.parse;k.Renderer=$;k.TextRenderer=_;k.Lexer=x;k.lexer=x.lex;k.Tokenizer=S;k.Hooks=L;k.parse=k;var it=k.options,ot=k.setOptions,lt=k.use,at=k.walkTokens,ct=k.parseInline,pt=k,ut=b.parse,ht=x.lex;
+
+if(__exports != exports)module.exports = exports;return module.exports}));

diff --git a/portal/assets/js/markdown.js b/portal/assets/js/markdown.js
@@ -22,13 +22,13 @@
                 .replace(/~~(.+?)~~/g, '<del>$1</del>')
                 .replace(/\[([^\]]+)\]\((https?:\/\/[^\s)]+)\)/g,
                     '<a href="$2" target="_blank" rel="noopener noreferrer">$1</a>')
-                .replace(/(^|[^*])\*([^*\n]+)\*/g, '$1<em>$2</em>')
-                .replace(/(^|[^_])_([^_\n]+)_/g, '$1<em>$2</em>');
+                .replace(/(^|[^*])\*([^*\n]+)\*/g, function(_, p1, p2) { return p1 + '<em>' + p2 + '</em>'; })
+                .replace(/(^|[^_])_([^_\n]+)_/g, function(_, p1, p2) { return p1 + '<em>' + p2 + '</em>'; });
         }).join('');
     }
 
     function isTableDelimiter(line) {
-        return /^\s*\|?\s*:?-{3,}:?\s*(?:\|\s*:?-{3,}:?\s*)+\|?\s*$/.test(line);
+        return /^\s*\|?\s*:?-{2,}:?\s*(?:\|\s*:?-{2,}:?\s*)+\|?\s*$/.test(line);
     }
 
     function isTableStart(lines, index) {
@@ -88,9 +88,23 @@
     }
 
     function renderAtlasMarkdown(markdown) {
-        var lines = String(markdown == null ? '' : markdown)
-            .replace(/\r\n?/g, '\n')
-            .split('\n');
+        if (!markdown) return '';
+        var raw = String(markdown);
+
+        // 1. First priority: Use battle-tested marked parser if available
+        if (typeof global.marked !== 'undefined' && typeof global.marked.parse === 'function') {
+            try {
+                return global.marked.parse(raw, {
+                    gfm: true,
+                    breaks: true
+                });
+            } catch (e) {
+                console.warn('marked parse failed, falling back to internal parser:', e);
+            }
+        }
+
+        // 2. High-reliability fallback parser
+        var lines = raw.replace(/\r\n?/g, '\n').split('\n');
         var html = '';
         var index = 0;
 
@@ -177,4 +191,4 @@
     }
 
     global.renderAtlasMarkdown = renderAtlasMarkdown;
-}(window));
+})(typeof window !== 'undefined' ? window : this);

diff --git a/portal/assets/css/style.css b/portal/assets/css/style.css
@@ -1488,3 +1488,91 @@ footer.main-footer a:hover {
         max-width: 380px;
     }
 }
+
+/* --- Markdown Tables & Rich Text Formatting --- */
+.answer-content table,
+.markdown-table {
+    width: 100%;
+    border-collapse: collapse;
+    margin: 14px 0;
+    font-size: 0.90rem;
+    line-height: 1.5;
+    background: #ffffff;
+    border-radius: 8px;
+    overflow: hidden;
+    box-shadow: 0 1px 3px rgba(0, 0, 0, 0.08);
+    border: 1px solid #cbd5e1;
+}
+
+.markdown-table-wrapper {
+    width: 100%;
+    overflow-x: auto;
+    margin: 12px 0;
+}
+
+.answer-content th,
+.markdown-table th {
+    background: #f1f5f9;
+    color: #0f172a;
+    font-weight: 700;
+    text-align: left;
+    padding: 10px 14px;
+    border-bottom: 2px solid #cbd5e1;
+    border-right: 1px solid #e2e8f0;
+}
+
+.answer-content th:last-child,
+.markdown-table th:last-child {
+    border-right: none;
+}
+
+.answer-content td,
+.markdown-table td {
+    padding: 10px 14px;
+    color: #334155;
+    border-bottom: 1px solid #e2e8f0;
+    border-right: 1px solid #f1f5f9;
+    vertical-align: top;
+}
+
+.answer-content td:last-child,
+.markdown-table td:last-child {
+    border-right: none;
+}
+
+.answer-content tr:last-child td {
+    border-bottom: none;
+}
+
+.answer-content tr:hover td {
+    background-color: #f8fafc;
+}
+
+.answer-content p {
+    margin: 0 0 10px 0;
+    line-height: 1.6;
+}
+
+.answer-content p:last-child {
+    margin-bottom: 0;
+}
+
+.answer-content ul,
+.answer-content ol {
+    margin: 8px 0 12px 20px;
+    padding: 0;
+}
+
+.answer-content li {
+    margin-bottom: 4px;
+    line-height: 1.5;
+}
+
+.answer-content code {
+    background: #f1f5f9;
+    color: #0f172a;
+    padding: 2px 6px;
+    border-radius: 4px;
+    font-size: 0.88em;
+    font-family: Consolas, Monaco, monospace;
+}

diff --git a/portal/preview.html b/portal/preview.html
@@ -12,6 +12,8 @@
 
     <link rel="icon" type="image/png" href="assets/images/logo.png">
     <link rel="stylesheet" href="assets/css/style.css">
+    <script src="assets/js/marked.min.js"></script>
+    <script src="assets/js/markdown.js"></script>
 </head>
 
 <body>

diff --git a/scripts/capture_screenshots.py b/scripts/capture_screenshots.py
@@ -71,18 +71,34 @@ def main():
         page.screenshot(path=os.path.join(output_dir, "04_copilot_chat.png"))
 
         # Step 5: Submit Query & Capture Response
-        print("  -> Capturing Step 5: Response with In-Text Citations & Conflict Box...")
+        print("  -> Capturing Step 5: Response with In-Text Citations & Table Rendering...")
+        # Select C-04 for water utility scenario
+        client_select = page.locator("#loginClientSelect")
+        if client_select.is_visible():
+            page.select_option("#loginClientSelect", "C-04")
+            login_btn = page.locator("#loginFormView .btn-auth-submit")
+            if login_btn.is_visible():
+                login_btn.click()
+                page.wait_for_timeout(1000)
+
         query_input = page.locator("textarea, input[placeholder*='Ask']").first
         if query_input.is_visible():
-            query_input.fill("What was the global smart water meter market size in 2024?")
-            send_btn = page.locator("button:has-text('Send'), button[type='submit']").first
+            query_input.fill("What was the smart water meter market size in 2024?")
+            send_btn = page.locator("#sendBtn, button:has-text('Send')").first
             if send_btn.is_visible():
                 send_btn.click()
-                page.wait_for_timeout(4000)
+                try:
+                    page.wait_for_selector(".answer-content table", timeout=25000)
+                    page.wait_for_timeout(1000)
+                    page.evaluate("() => { const tbl = document.querySelector('.answer-content table'); if (tbl) { tbl.scrollIntoView({block: 'center'}); const cs = document.getElementById('chatStream'); if (cs) cs.scrollTop = Math.max(0, cs.scrollTop - 85); } }")
+                    page.wait_for_timeout(800)
+                except Exception:
+                    page.wait_for_timeout(4000)
+
         page.screenshot(path=os.path.join(output_dir, "05_query_response_citations.png"))
 
         browser.close()
-        print(f"[✓] Successfully captured 5 evaluator screenshots to {output_dir}!")
+        print(f"[OK] Successfully captured 5 evaluator screenshots to {output_dir}!")
 
 if __name__ == "__main__":
     main()

diff --git a/portal/application/views/chat_view.php b/portal/application/views/chat_view.php
@@ -10,6 +10,8 @@
     <link rel="stylesheet" href="https://cdnjs.cloudflare.com/ajax/libs/font-awesome/6.4.0/css/all.min.css">
     <link rel="icon" type="image/png" href="<?php echo parse_url(base_url('assets/images/logo.png'), PHP_URL_PATH); ?>">
     <link rel="stylesheet" href="<?php echo parse_url(base_url('assets/css/style.css'), PHP_URL_PATH); ?>">
+    <script src="<?php echo parse_url(base_url('assets/js/marked.min.js'), PHP_URL_PATH); ?>"></script>
+    <script src="<?php echo parse_url(base_url('assets/js/markdown.js'), PHP_URL_PATH); ?>"></script>
 </head>
 <body>
 

diff --git a/scripts/run_eval_api_truthful.py b/scripts/run_eval_api_truthful.py
@@ -8,7 +8,7 @@ import json
 import requests
 
 API_URL = "http://127.0.0.1:8085/api/v1/chat"
-API_KEY = "atlas_test_secret_key_2025"
+API_KEY = "atlas_dev_secret_key"
 
 HEADERS = {
     "Content-Type": "application/json",
